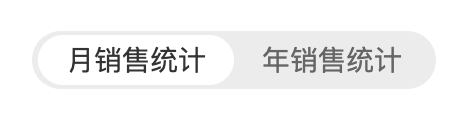
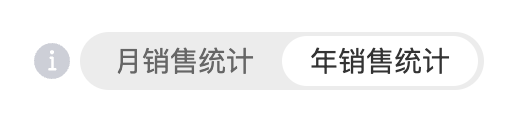
feat: 多个 slot 更新

Changed region(s): [[0.0598, 0.3443, 0.5085, 0.6393], [0.5385, 0.3689, 0.8675, 0.6148]]

diff --git a/vue_library_demo/src/components/cwd-capsule/stories/block.stories.js b/vue_library_demo/src/components/cwd-capsule/stories/block.stories.js
@@ -21,13 +21,13 @@ export const Default = {
 export const Demo = {
   name: '使用slot',
   render: () => ({
-    template: '<cwd-capsule value="year"><template #item="current"><u-text :text="current.item.label"></u-text></template></cwd-capsule>',
+    template: '<cwd-capsule value="year"><template #item="current"><u-text :text="`使用 Slot ${current.item.label}`"></u-text></template></cwd-capsule>',
   }),
 };
 
 export const Build = {
-  name: '测试多个2',
+  name: '展示Icon',
   render: () => ({
-    template: '<cwd-capsule></cwd-capsule>',
+    template: '<cwd-capsule value="year" testIcon="xinxi_info"></cwd-capsule>',
   }),
 };

diff --git a/vue_library_demo/.storybook/preview.js b/vue_library_demo/.storybook/preview.js
@@ -7,6 +7,16 @@ Object.keys(Components).forEach((key) => {
   }
 });
 
+Vue.component('u-text', {
+  functional: true,
+  props: {
+    text: String,
+  },
+  render(h, { props }) {
+    return h('span', {}, props.text);
+  }
+})
+
 const preview = {
   parameters: {
     actions: { argTypesRegex: '^on[A-Z].*' },
